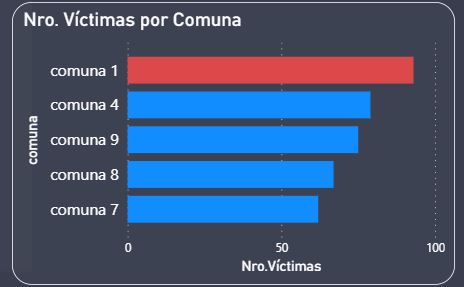
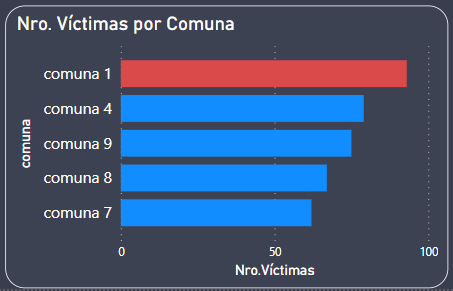
fixing Readme

Changed region(s): [[0.0, 0.0, 1.0, 1.0], [0.4945, 0.8362, 0.7108, 0.9477], [0.2472, 0.8362, 0.3091, 0.892]]

diff --git a/README.md b/README.md
@@ -66,34 +66,33 @@ Una vez que los datos están limpios, es tiempo de revisar las relaciones que ex
 
 
 <p align="center">
-<img src="src\nube.png"  height = 300 weight=400>
+<img src="src\nube.png"  height=300 weight=400>
 </p>
 
 ## **3. Análisis de Datos**
 - La principal causa de víctimas en las carreteras son las motos, seguidos de los peatones y los autos. Las motos causaron casí la mitad de la muertes representando el 42%. Esto pone de relieve el importante impacto y participación de las motos  en los accidentes de tráfico. Es crucial abordar factores como el comportamiento del conductor, la infraestructura vial y las medidas de seguridad de las motos para mitigar los riesgos asociados con los accidentes.
 
-<p align="left" >
-&nbsp;	&nbsp;&nbsp;&nbsp;
-<img src="src\analisis01.png"  height = 400 weight=500>
+<p align="center" >
+<img src="src\analisis01.png"  height=450 weight=550>
 </p>
 
 - La mayor parte de accidentes ocurrieron en las comunas 1 , 4 y 9, es necesario indicar que estas comunas requieren una mayor atención para mejorar las medidas de seguridad vial. Factores como una mayor densidad de población, un mayor volumen de tráfico, redes de carreteras complejas y diversos modos de transporte que interactúan en estas comunas pueden estar contribuyendo a la mayor tasa de víctimas.
 
 <p align="center">
-<img src="src\analisis02.png" >
+<img src="src\analisis02.png" height=250 weight=350>
 </p>
 
 - El rango de edades involucrado en la mayor cantidad de accidentes es el que está comprendido entre los 18 a 35 años de edad. Aquí se debe de tener en cuenta factores como el aumento del volumen de tráfico, las velocidades más altas, las distracciones durante el la ruta pueden contribuir a una mayor incidencia de accidentes.
 
 <p align="center">
-<img src="src\analisis03.png" >
+<img src="src\analisis03.png" height=300 weight=400>
 </p>
 
 - El mapa donde se localizan los puntos donde ocurrieron los accidentes nos sirve de mucha ayuda ya que nos muestran las principales zonas donde existe una mayor frecuencia de accidentes, esto es el caso de que si filtramos por una específica comuna podemos reconocer las avenidas que presentan mayor cantidad de accidentes, esto nos sirve para realizar políticas urbanas y así mitigar la tasa de mortalidad por siniestros viales.
 
 
 <p align="center">
-<img src="src\analisis04.png" >
+<img src="src\analisis04.png" height=250 weight=350>
 </p>
 
 - Podemos reconcer que los días que presentan mayor cantidad de siniestros viales son los Lunes y Sábados, así como tambien los mese donde existen mayores frecuencias de accidentes son los meses de Noviembre y Diciembre.
@@ -101,7 +100,7 @@ Una vez que los datos están limpios, es tiempo de revisar las relaciones que ex
 - Se halló que el sexo Masculino es el que tiene un mayor porcentaje de siniestros viales con un 76%
 
 <p align="center">
-<img src="src\analisis05.png" >
+<img src="src\analisis05.png" height=250 weight=350>
 </p>
 
 
